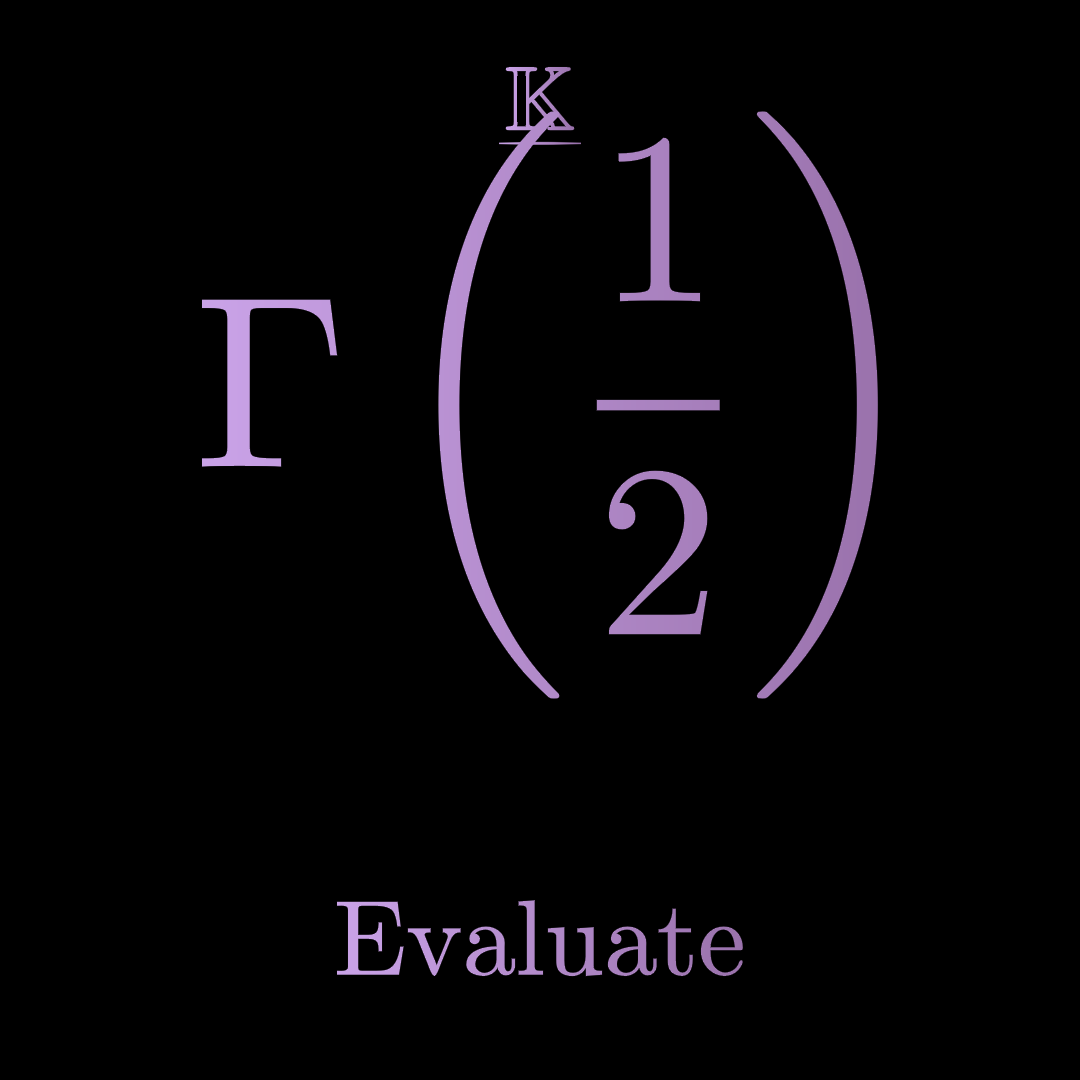
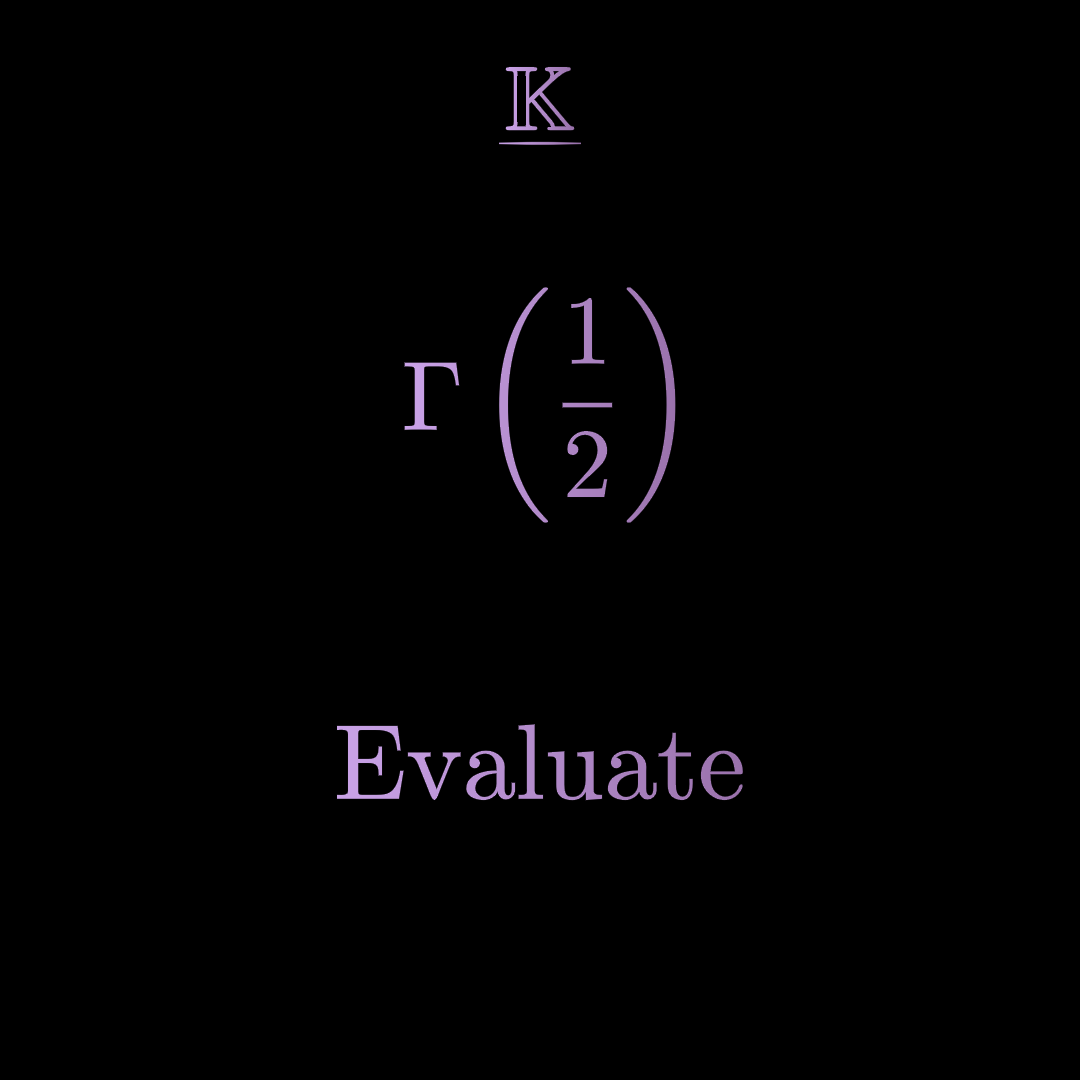
f

diff --git a/char.py b/char.py
@@ -321,7 +321,7 @@ class K(InteractiveScene):
         problem = Tex(R"\Gamma\left(\frac12\right)")
         problem.set_color(color)
         problem.shift(UP)
-        problem.set_width(FRAME_WIDTH - 3)
+        problem.set_width(FRAME_WIDTH - 6)
 
         self.add(problem)
 
